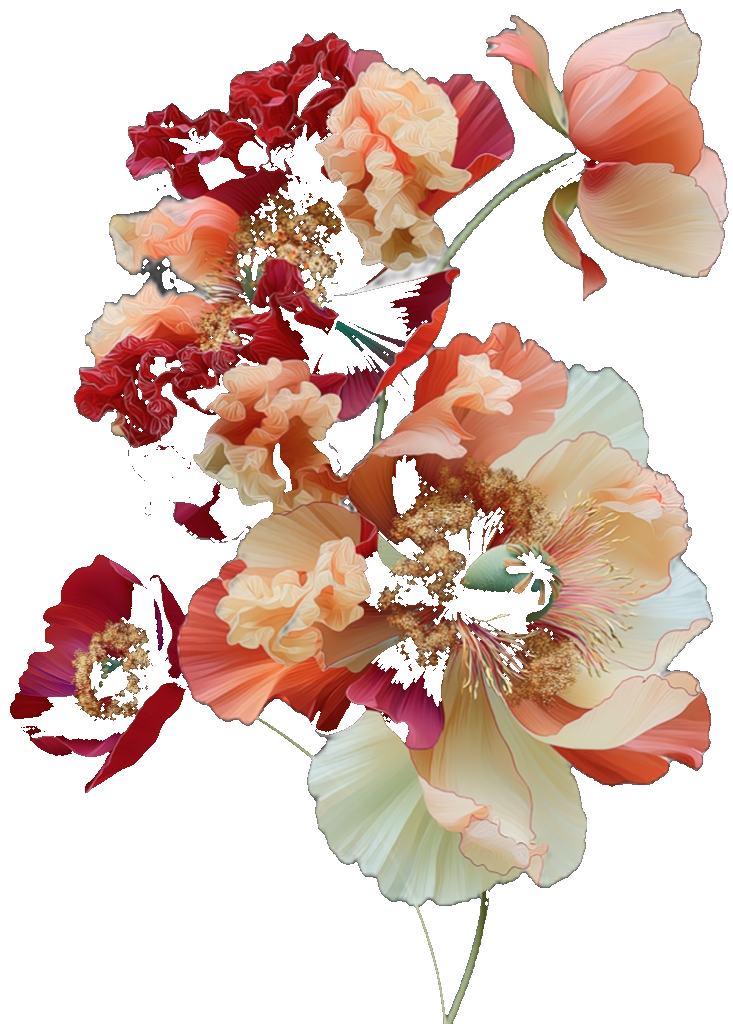
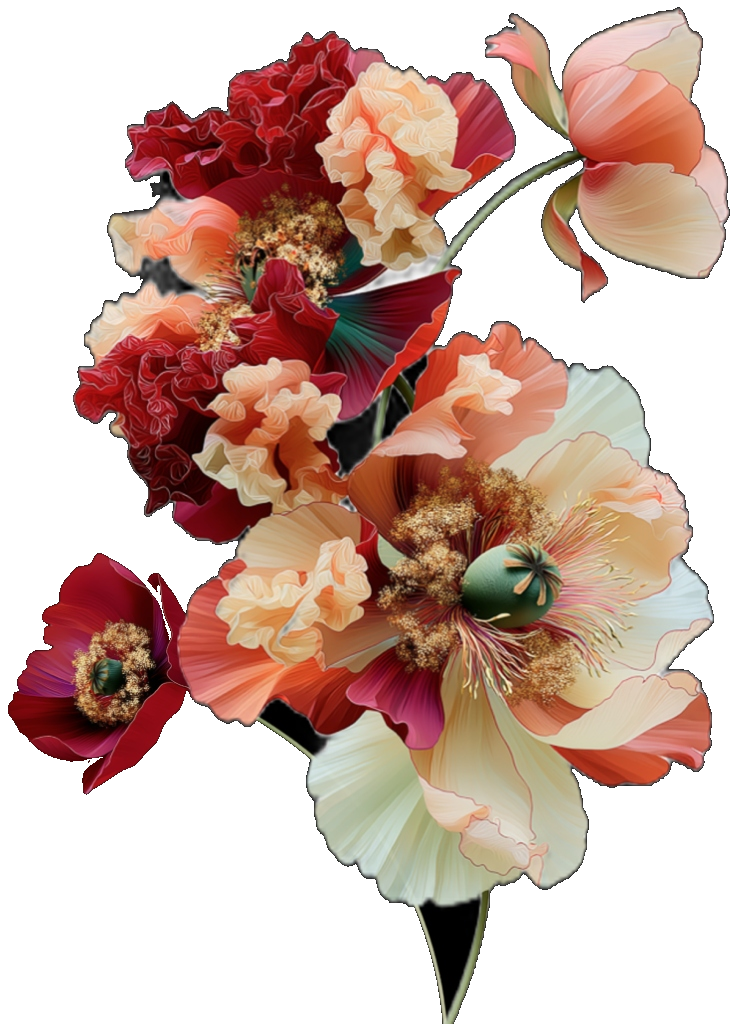
Use corner-floodfill transparency algorithm to knock out background without eating dark maroon inner flower petals

diff --git a/schedule.html b/schedule.html
@@ -401,7 +401,7 @@ body::before{
     </aside>
 
     <section class="card figma-card-design">
-      <img src="images/figma-side-flowers-flush-v3.png?v=30303" alt="" class="figma-side-flowers" style="position: absolute !important; top: 8% !important; right: -25% !important; width: 62% !important; max-width: 580px !important; z-index: 50 !important; pointer-events: none !important;" aria-hidden="true">
+      <img src="images/figma-side-flowers-flush-v3.png?v=40404" alt="" class="figma-side-flowers" style="position: absolute !important; top: 8% !important; right: -25% !important; width: 62% !important; max-width: 580px !important; z-index: 50 !important; pointer-events: none !important;" aria-hidden="true">
 
       <div class="figma-top-border-wrap">
         <img src="images/figma-top-border-final.png?v=4" alt="" class="figma-top-border-img">
